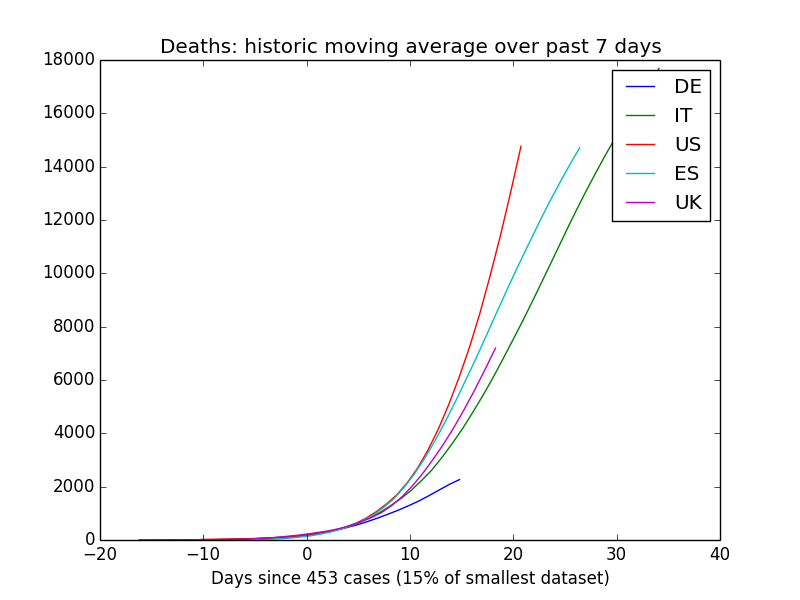
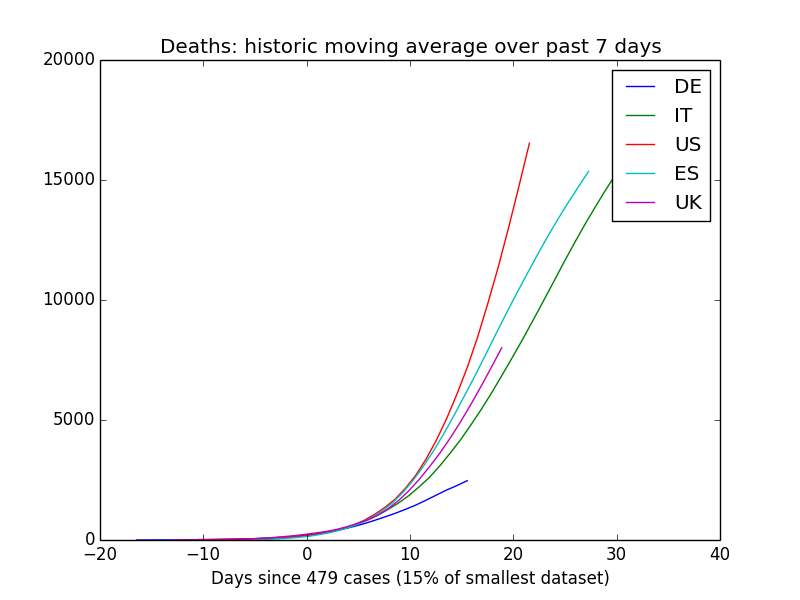
Update plots with data from April, 13th

diff --git a/README.md b/README.md
@@ -2,7 +2,7 @@
 
 Data is taken from the [2019 Novel Coronavirus COVID-19 Data Repository by Johns Hopkins CSSE](https://github.com/CSSEGISandData/COVID-19)
 
-### Last update: 12.04.2020
+### Last update: 13.04.2020
 
 ### Cases
 
